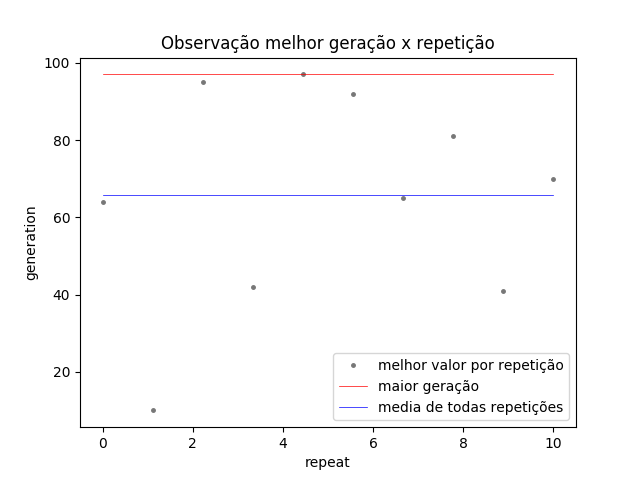
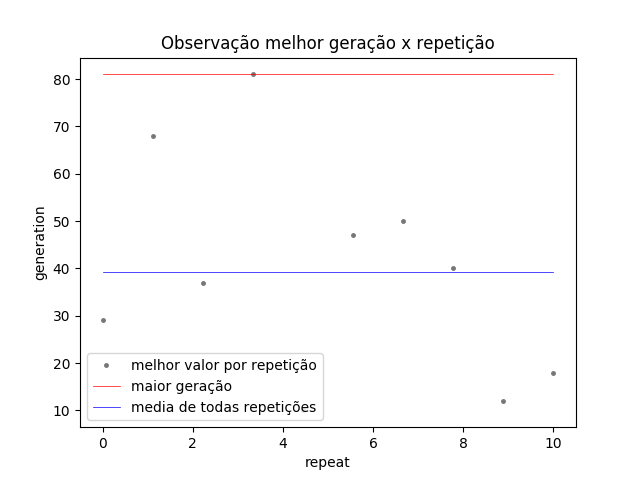
Get Matriz from reader.py

diff --git a/reader.py b/reader.py
@@ -1,7 +1,8 @@
 import re as regex
 
 class reader:
-	def createMatrix():
+
+	def createMatrix(self):
 		
 		arq = open('inputpath', 'r')
 		texto = arq.read()
@@ -9,13 +10,18 @@ class reader:
 		matriz = []
 		
 		for texto in textoarray:
+
   			lista = regex.findall('(\d+)', texto)
   			for i in range(len(lista)):
-  				lista[i] = int(lista[i])
-  			matriz.append(lista)
-		print(matriz)
+				  lista[i] = int(lista[i])
+  			if len(lista) > 0:
+				  matriz.append(lista)
+
 		arq.close()
 		return matriz
+""" 
+
 	matriz2 = createMatrix()
 
-	print (matriz2)
+	for element in matriz2:
+		print (element) """

diff --git a/alocacaoArtigo.py b/alocacaoArtigo.py
@@ -1,5 +1,6 @@
 import generate as gen
 import randomize as rand
+import reader as read
 import matplotlib.pyplot as plt
 import numpy as np
 
@@ -255,11 +256,10 @@ repeat = 10
 best_generations = []
 best_gen = 0
 
-# obs: matriz_p deve ser lida de um arquivo, suposta aqui
-matriz_p =  [[0, 0, 3, 4, 4, 1],
-            [3, 3, 0, 0, 1, 2],
-            [4, 0, 0, 1, 0, 1],
-            [2, 2, 2, 3, 2, 2]]
+# get matriz from reader.py > inputpath
+reader = read.reader()
+matriz_p = reader.createMatrix() 
+
 
 for i in range(repeat):
     aloca = alocacaoArtigo(matriz_p)

diff --git a/generate.py b/generate.py
@@ -67,6 +67,3 @@ class generate:
         set_str = '{0:0' + str(positions) + 'b}'
         return set_str.format(number)
 
-# obj = generate()
-
-# obj.to_binary([2, 1, 3, 3, 0])
